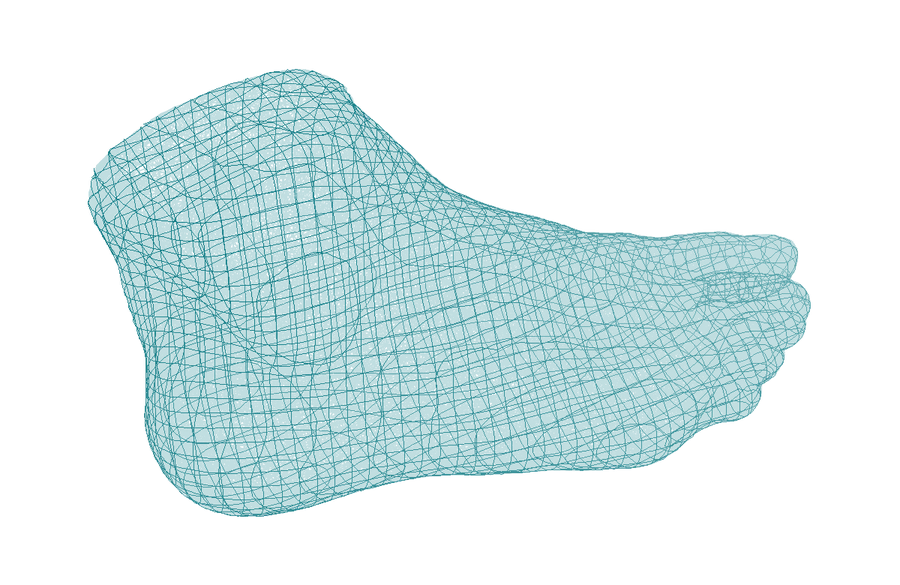
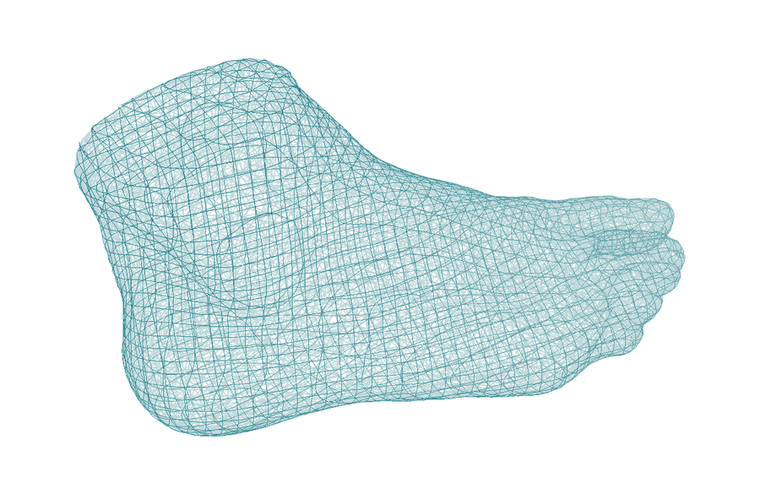
Hologram a shade darker for the light page, lower exposure, no grey loading bar; still redrawn to match (128 kB)

Changed region(s): [[0.0908, 0.1215, 0.8776, 0.8806], [0.8776, 0.4858, 0.9079, 0.5162]]

diff --git a/lib/ui/foot_twin.dart b/lib/ui/foot_twin.dart
@@ -154,6 +154,7 @@ class FootTwin extends StatelessWidget {
     final chip = K.isDark ? 'rgba(13,32,41,0.88)' : 'rgba(255,255,255,0.92)';
     return '''
 model-viewer { --poster-color: transparent; background: transparent; }
+model-viewer::part(default-progress-bar) { display: none; }
 .hs { display: flex; align-items: center; gap: 6px; pointer-events: none;
   transition: opacity 200ms; font-family: 'Readex Pro', system-ui, sans-serif; }
 .hs:not([data-visible]) { opacity: 0; }
@@ -203,7 +204,7 @@ model-viewer { --poster-color: transparent; background: transparent; }
           cameraOrbit: _orbit,
           minCameraOrbit: 'auto auto 60%',
           maxCameraOrbit: 'auto auto 180%',
-          exposure: 1.1,
+          exposure: src == null ? 0.9 : 1.1,
           shadowIntensity: 0,
           scale: side == FootSide.right && src == null ? '1 1 -1' : null,
           innerModelViewerHtml: hotspots,

diff --git a/lib/screens/auth_pages.dart b/lib/screens/auth_pages.dart
@@ -180,9 +180,9 @@ class LandingVisual extends StatelessWidget {
                       autoRotateDelay: 0,
                       rotationPerSecond: '14deg',
                       cameraOrbit: '-150deg 60deg 105%',
-                      exposure: 1.25,
+                      exposure: 0.9,
                       shadowIntensity: 0,
-                      relatedCss: 'model-viewer { --poster-color: transparent; background: transparent; }',
+                      relatedCss: 'model-viewer { --poster-color: transparent; background: transparent; } model-viewer::part(default-progress-bar) { display: none; }',
                     )
                   : Center(
                       child: KImage('hero_twin',
